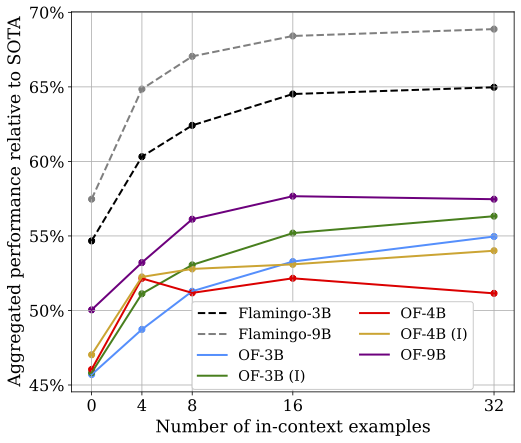
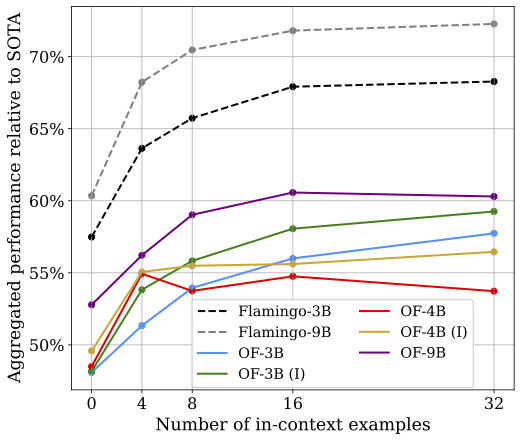
fixed agg performance #s

diff --git a/blog/open-flamingo-v2.md b/blog/open-flamingo-v2.md
@@ -47,7 +47,7 @@ Below, we aggregate model performances across 7 evaluation datasets and 5 in-con
 
 ![](/images/blog/flamingo-avg-performance.jpg)
 
-Next, we report performance relative to fine-tuned SOTAs listed on PapersWithCode\*. With 32 in-context examples, OpenFlamingo-3B and OpenFlamingo-9B models attain more than 50% of fine-tuned performance, despite only being pre-trained on web data. On average, OpenFlamingo models trail their DeepMind counterparts by around 10% 0-shot and 15% 32-shot. 
+Next, we report performance relative to fine-tuned SoTAs listed on PapersWithCode\*. With 32 in-context examples, OpenFlamingo-3B and OpenFlamingo-9B models attain more than 55% of fine-tuned performance, despite only being pre-trained on web data. On average, OpenFlamingo models trail their DeepMind counterparts by around 10% 0-shot and 15% 32-shot.  
 
 ![](/images/blog/flamingo-aggregated-performance.png)
 
